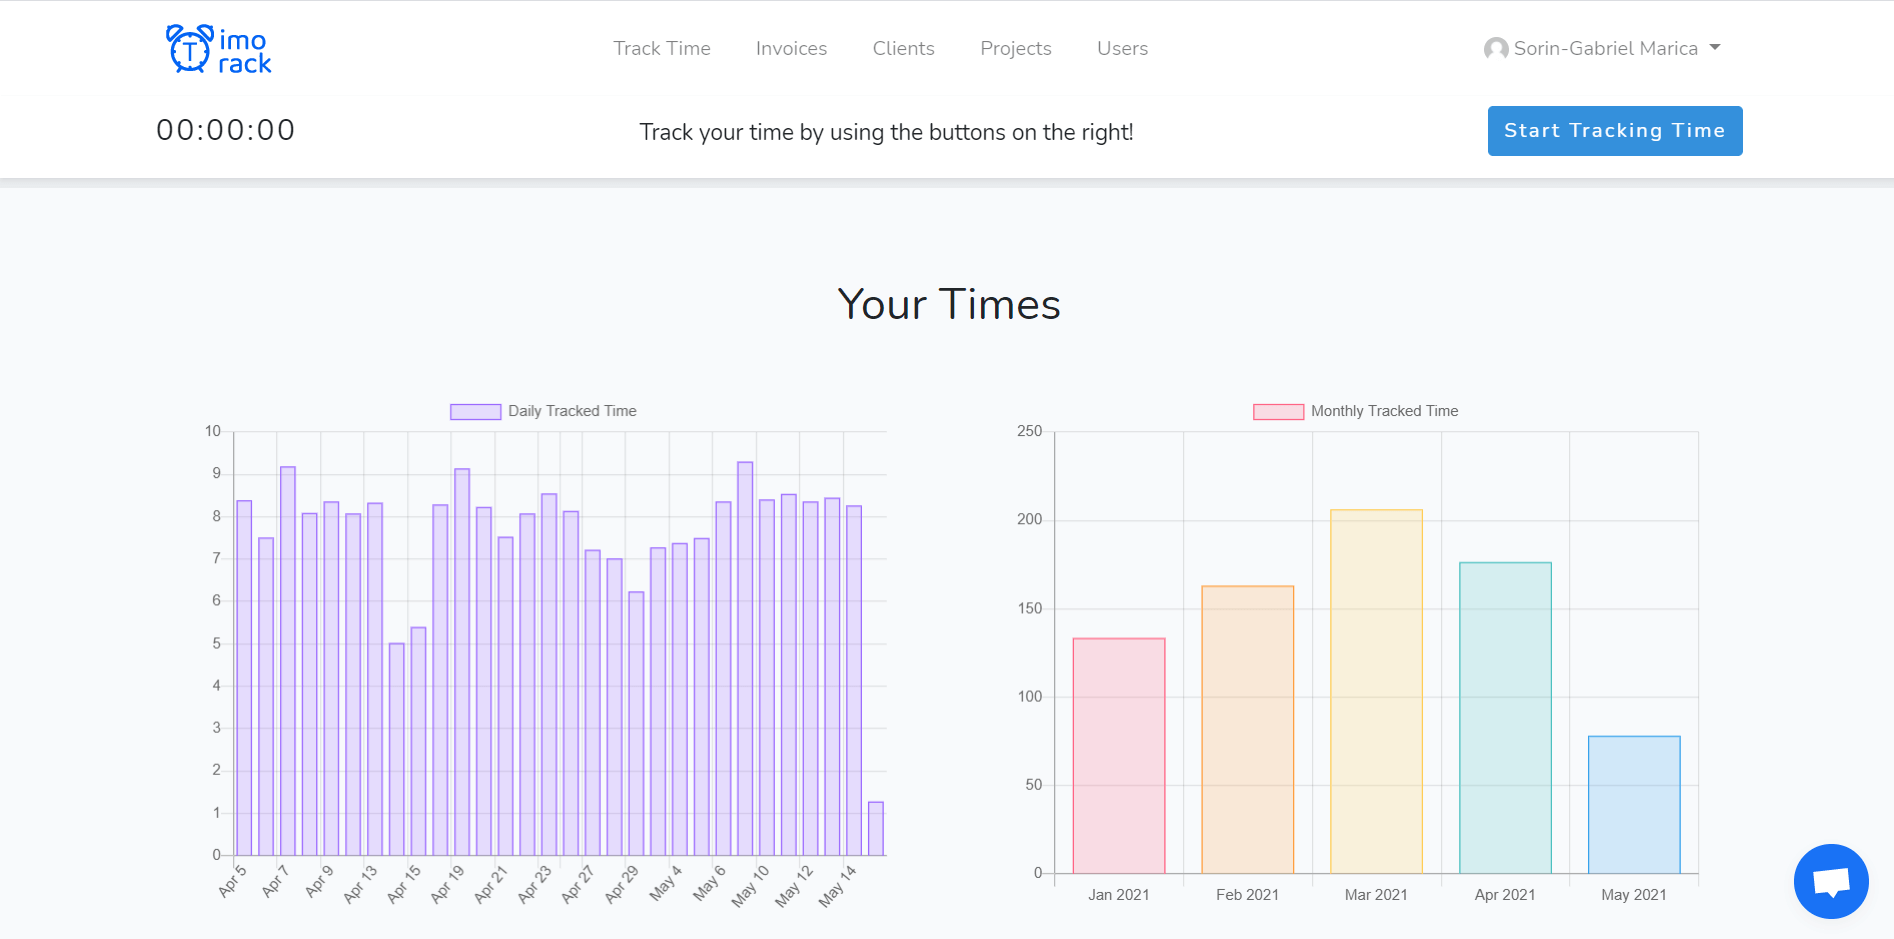
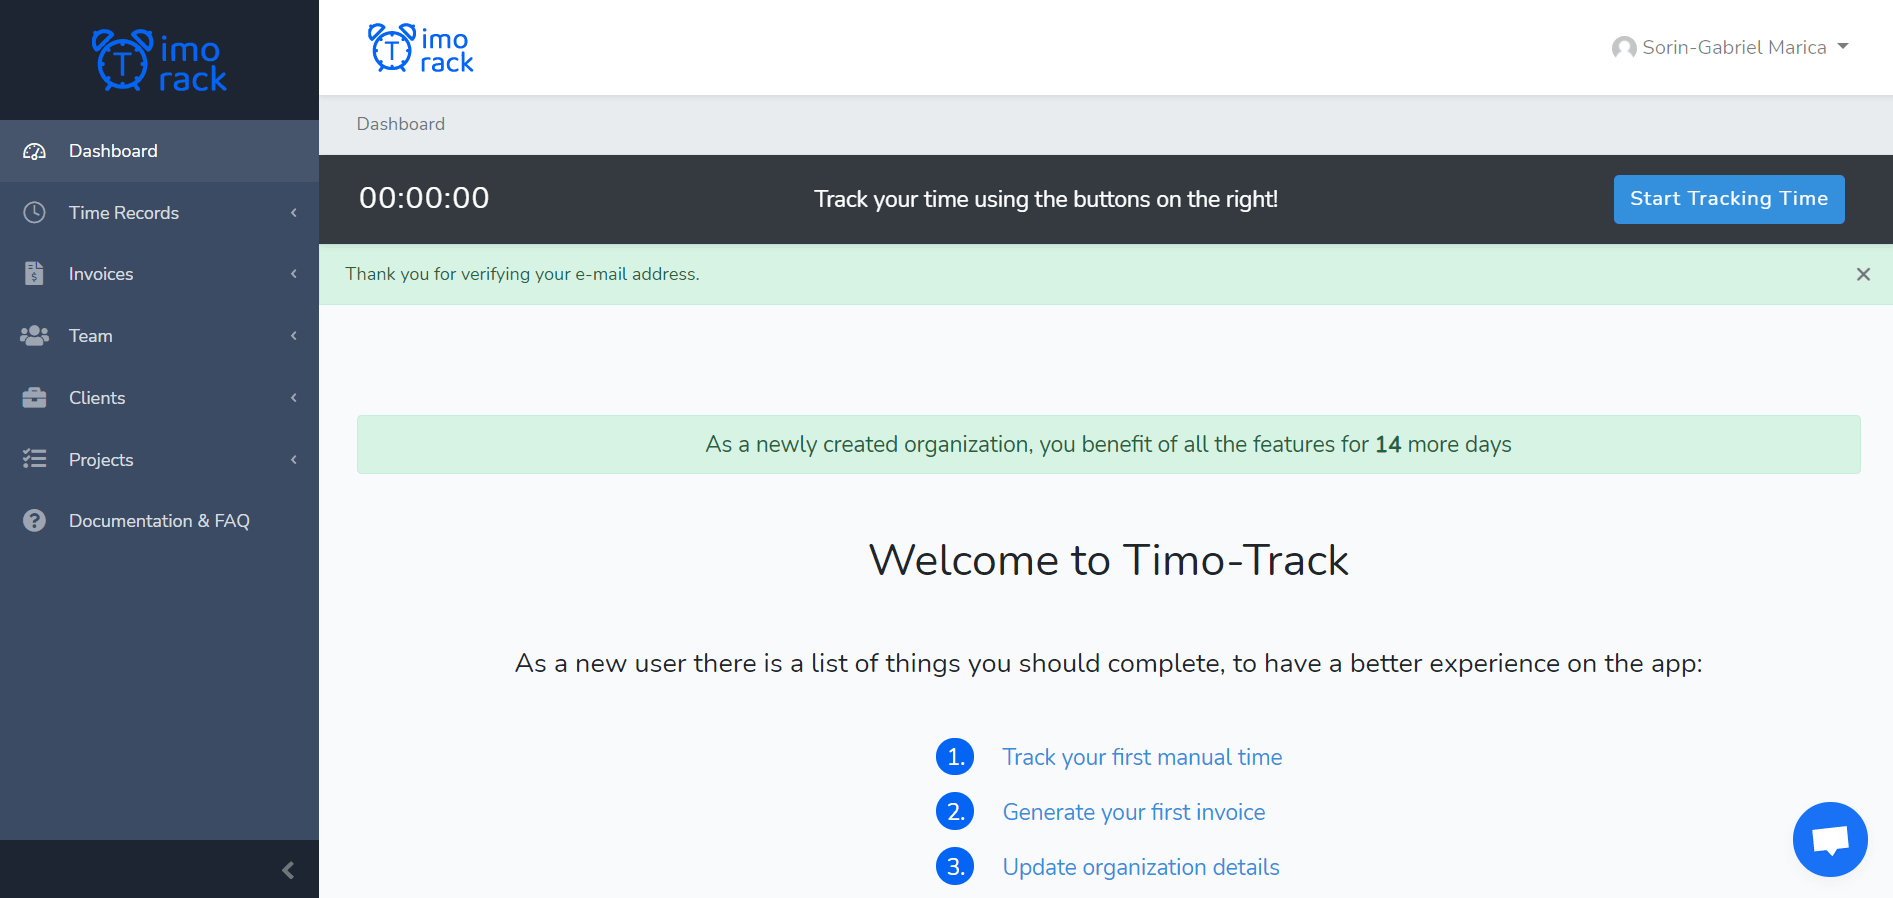
Update screenshots section on homepage

diff --git a/resources/views/frontend/index.blade.php b/resources/views/frontend/index.blade.php
@@ -229,41 +229,57 @@
     <section id="screenshots" class="screenshots-area mt-5 mb-5">
         <div class="container">
             <div class="row">
-                <div id="screenshotsCarousel" class="carousel slide" data-ride="carousel">
+                <div class="section-title w-100 mt-5">
+                    <h4 class="title text-center mb-5 w-100">@lang('Steps and features')</h3>
+                </div>
+                <div id="screenshotsCarousel" class="carousel slide mb-5" data-ride="carousel">
                     <div class="carousel-inner">
                         <div class="carousel-item active">
-                            <picture class="d-block w-100">
-                                <source type="image/webp" srcset="{{ asset('img/presentation/screenshots/times.webp#full') }}">
-                                <source type="image/png" srcset="{{ asset('img/presentation/screenshots/times.png#full') }}">
-                                <img src="{{ asset('img/presentation/screenshots/times.png#full') }}" alt="{{ __('Times') }}">
+                            <p class="text-center mb-5 lead">@lang('Sign up for your free account, no credit card required')</p>
+                            <picture class="d-block w-100 border border-dark">
+                                <source type="image/webp" srcset="{{ asset('img/presentation/screenshots/register.webp#full') }}">
+                                <source type="image/png" srcset="{{ asset('img/presentation/screenshots/register.png#full') }}">
+                                <img src="{{ asset('img/presentation/screenshots/register.png#full') }}" alt="{{ __('Register') }}">
                             </picture>
                         </div>
                         <div class="carousel-item">
-                            <picture class="d-block w-100">
+                            <p class="text-center mb-5 lead">@lang('After activation, check out your dashboard, which will lead you through your first steps on Timo-Track')</p>
+                            <picture class="d-block w-100 border border-dark">
                                 <source type="image/webp" srcset="{{ asset('img/presentation/screenshots/dashboard.webp#full') }}">
                                 <source type="image/png" srcset="{{ asset('img/presentation/screenshots/dashboard.png#full') }}">
                                 <img src="{{ asset('img/presentation/screenshots/dashboard.png#full') }}" alt="{{ __('Dasbhoard') }}">
                             </picture>
                         </div>
                         <div class="carousel-item">
-                            <picture class="d-block w-100">
-                                <source type="image/webp" srcset="{{ asset('img/presentation/screenshots/create-invoice.webp#full') }}">
-                                <source type="image/png" srcset="{{ asset('img/presentation/screenshots/create-invoice.png#full') }}">
-                                <img src="{{ asset('img/presentation/screenshots/create-invoice.png#full') }}" alt="{{ __('Invoice') }}">
+                            <p class="text-center mb-5 lead">@lang('Start adding your times, either by starting the counter or adding manual times from the past')</p>
+                            <picture class="d-block w-100 border border-dark">
+                                <source type="image/webp" srcset="{{ asset('img/presentation/screenshots/add-time.webp#full') }}">
+                                <source type="image/png" srcset="{{ asset('img/presentation/screenshots/add-time.png#full') }}">
+                                <img src="{{ asset('img/presentation/screenshots/add-time.png#full') }}" alt="{{ __('Add Time') }}">
                             </picture>
                         </div>
                         <div class="carousel-item">
-                            <picture class="d-block w-100">
-                                <source type="image/webp" srcset="{{ asset('img/presentation/screenshots/create-user.webp#full') }}">
-                                <source type="image/png" srcset="{{ asset('img/presentation/screenshots/create-user.png#full') }}">
-                                <img src="{{ asset('img/presentation/screenshots/create-user.png#full') }}" alt="{{ __('Users') }}">
+                            <p class="text-center mb-5 lead">@lang('Bill your clients in a matter of minutes while keeping track of the times you bill')</p>
+                            <picture class="d-block w-100 border border-dark">
+                                <source type="image/webp" srcset="{{ asset('img/presentation/screenshots/add-invoice.webp#full') }}">
+                                <source type="image/png" srcset="{{ asset('img/presentation/screenshots/add-invoice.png#full') }}">
+                                <img src="{{ asset('img/presentation/screenshots/add-invoice.png#full') }}" alt="{{ __('Add Invoice') }}">
                             </picture>
                         </div>
                         <div class="carousel-item">
-                            <picture class="d-block w-100">
-                                <source type="image/webp" srcset="{{ asset('img/presentation/screenshots/account.webp#full') }}">
-                                <source type="image/png" srcset="{{ asset('img/presentation/screenshots/account.png#full') }}">
-                                <img src="{{ asset('img/presentation/screenshots/account.png#full') }}" alt="{{ __('Account') }}">
+                            <p class="text-center mb-5 lead">@lang('Download your first invoice created as a PDF')</p>
+                            <picture class="d-block w-100 border border-dark">
+                                <source type="image/webp" srcset="{{ asset('img/presentation/screenshots/invoice-example.webp#full') }}">
+                                <source type="image/png" srcset="{{ asset('img/presentation/screenshots/invoice-example.png#full') }}">
+                                <img src="{{ asset('img/presentation/screenshots/invoice-example.png#full') }}" alt="{{ __('Invoice Example') }}">
+                            </picture>
+                        </div>
+                        <div class="carousel-item">
+                            <p class="text-center mb-5 lead">@lang('Add team members to your organization')</p>
+                            <picture class="d-block w-100 border border-dark">
+                                <source type="image/webp" srcset="{{ asset('img/presentation/screenshots/team-members.webp#full') }}">
+                                <source type="image/png" srcset="{{ asset('img/presentation/screenshots/team-members.png#full') }}">
+                                <img src="{{ asset('img/presentation/screenshots/team-members.png#full') }}" alt="{{ __('Team Members') }}">
                             </picture>
                         </div>
                     </div>
